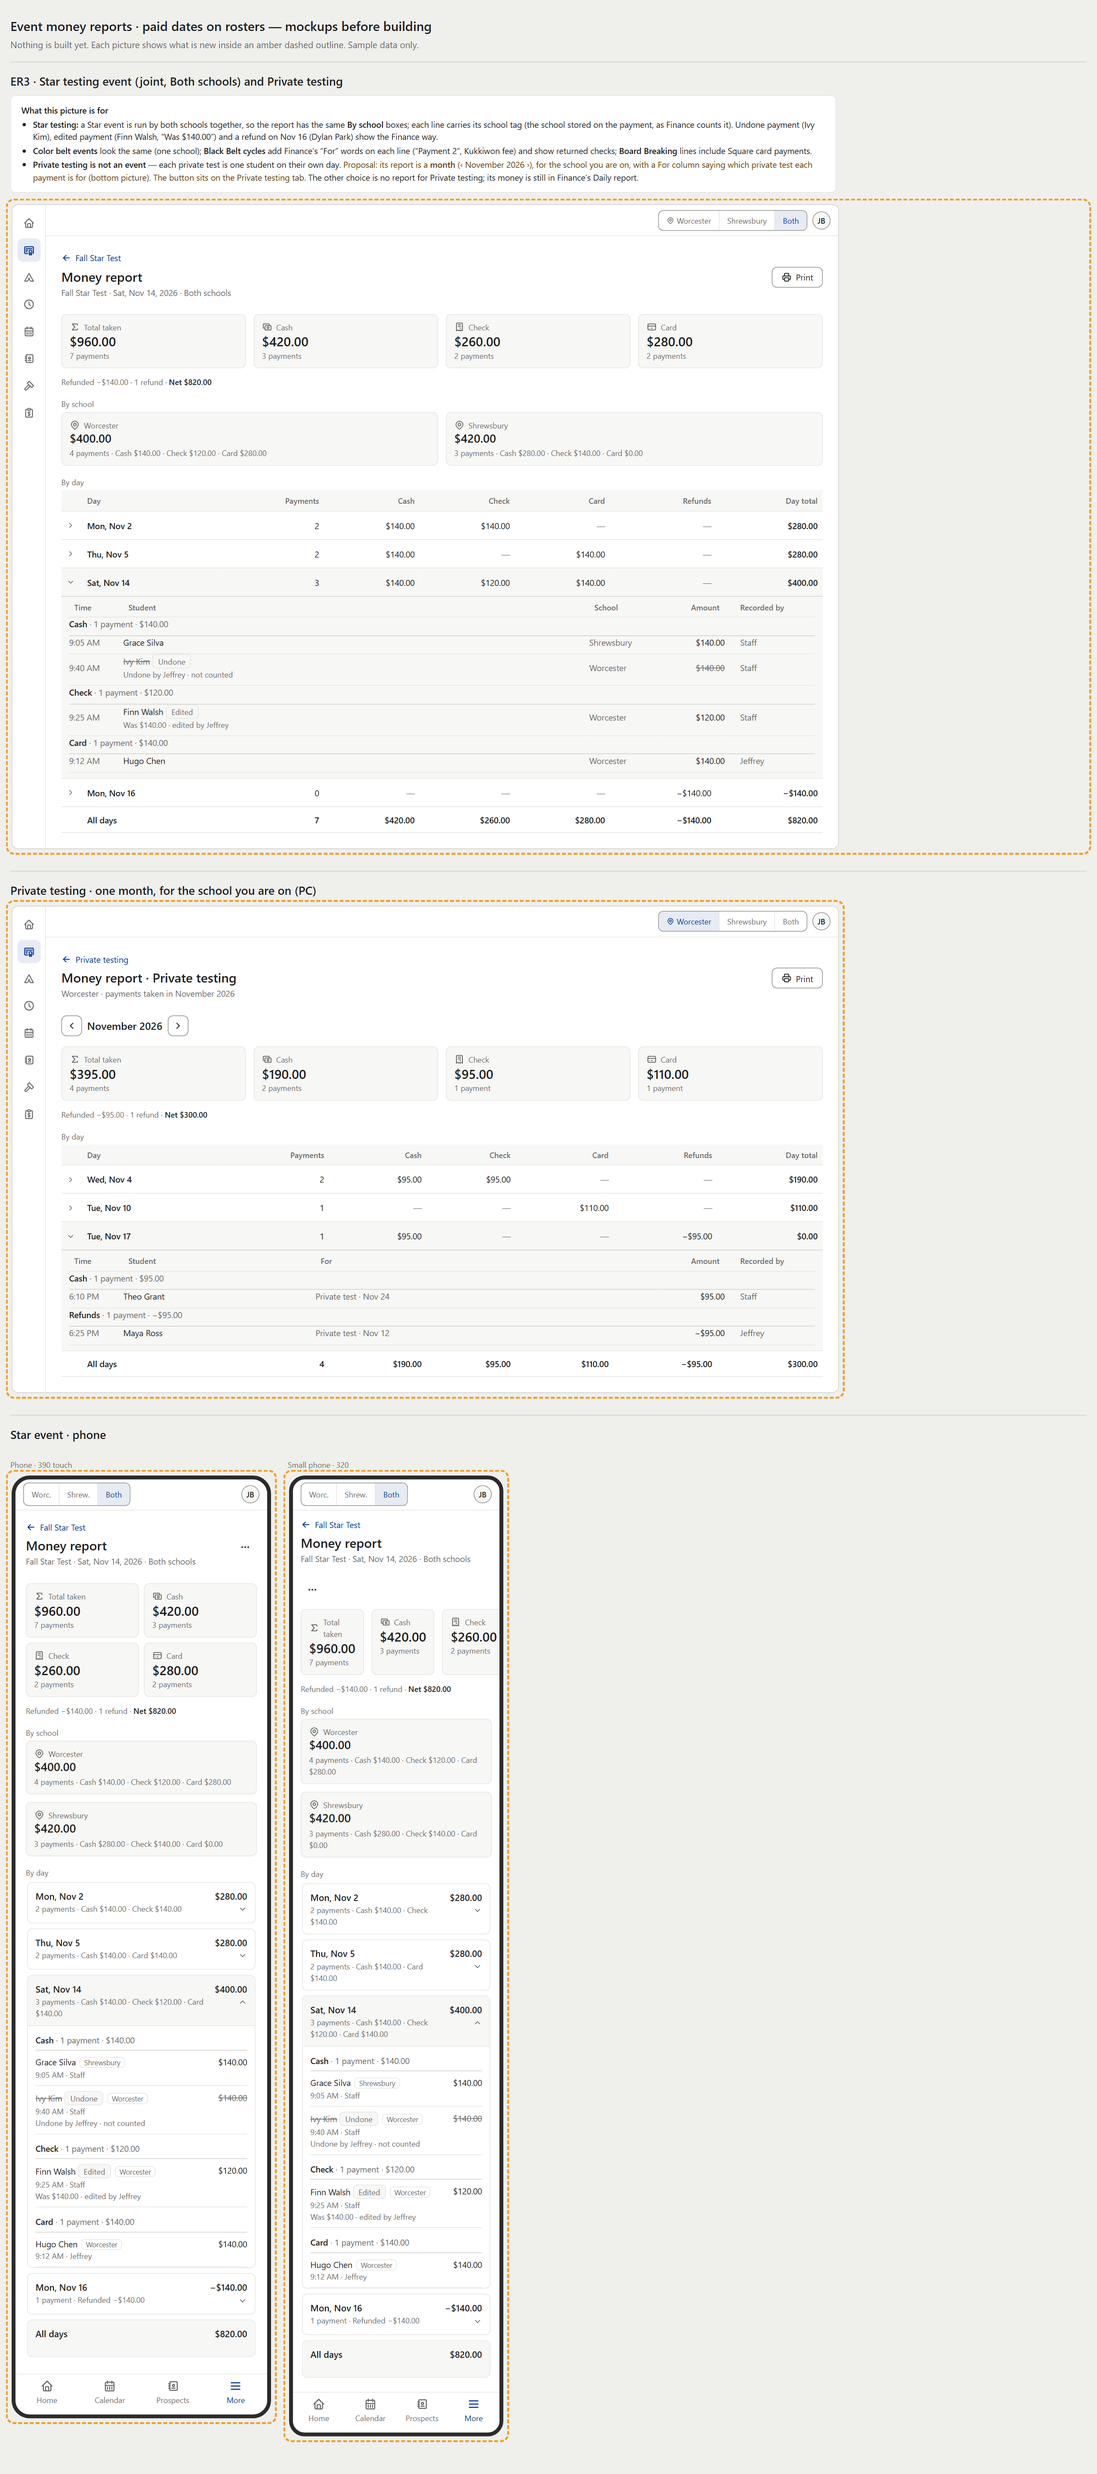
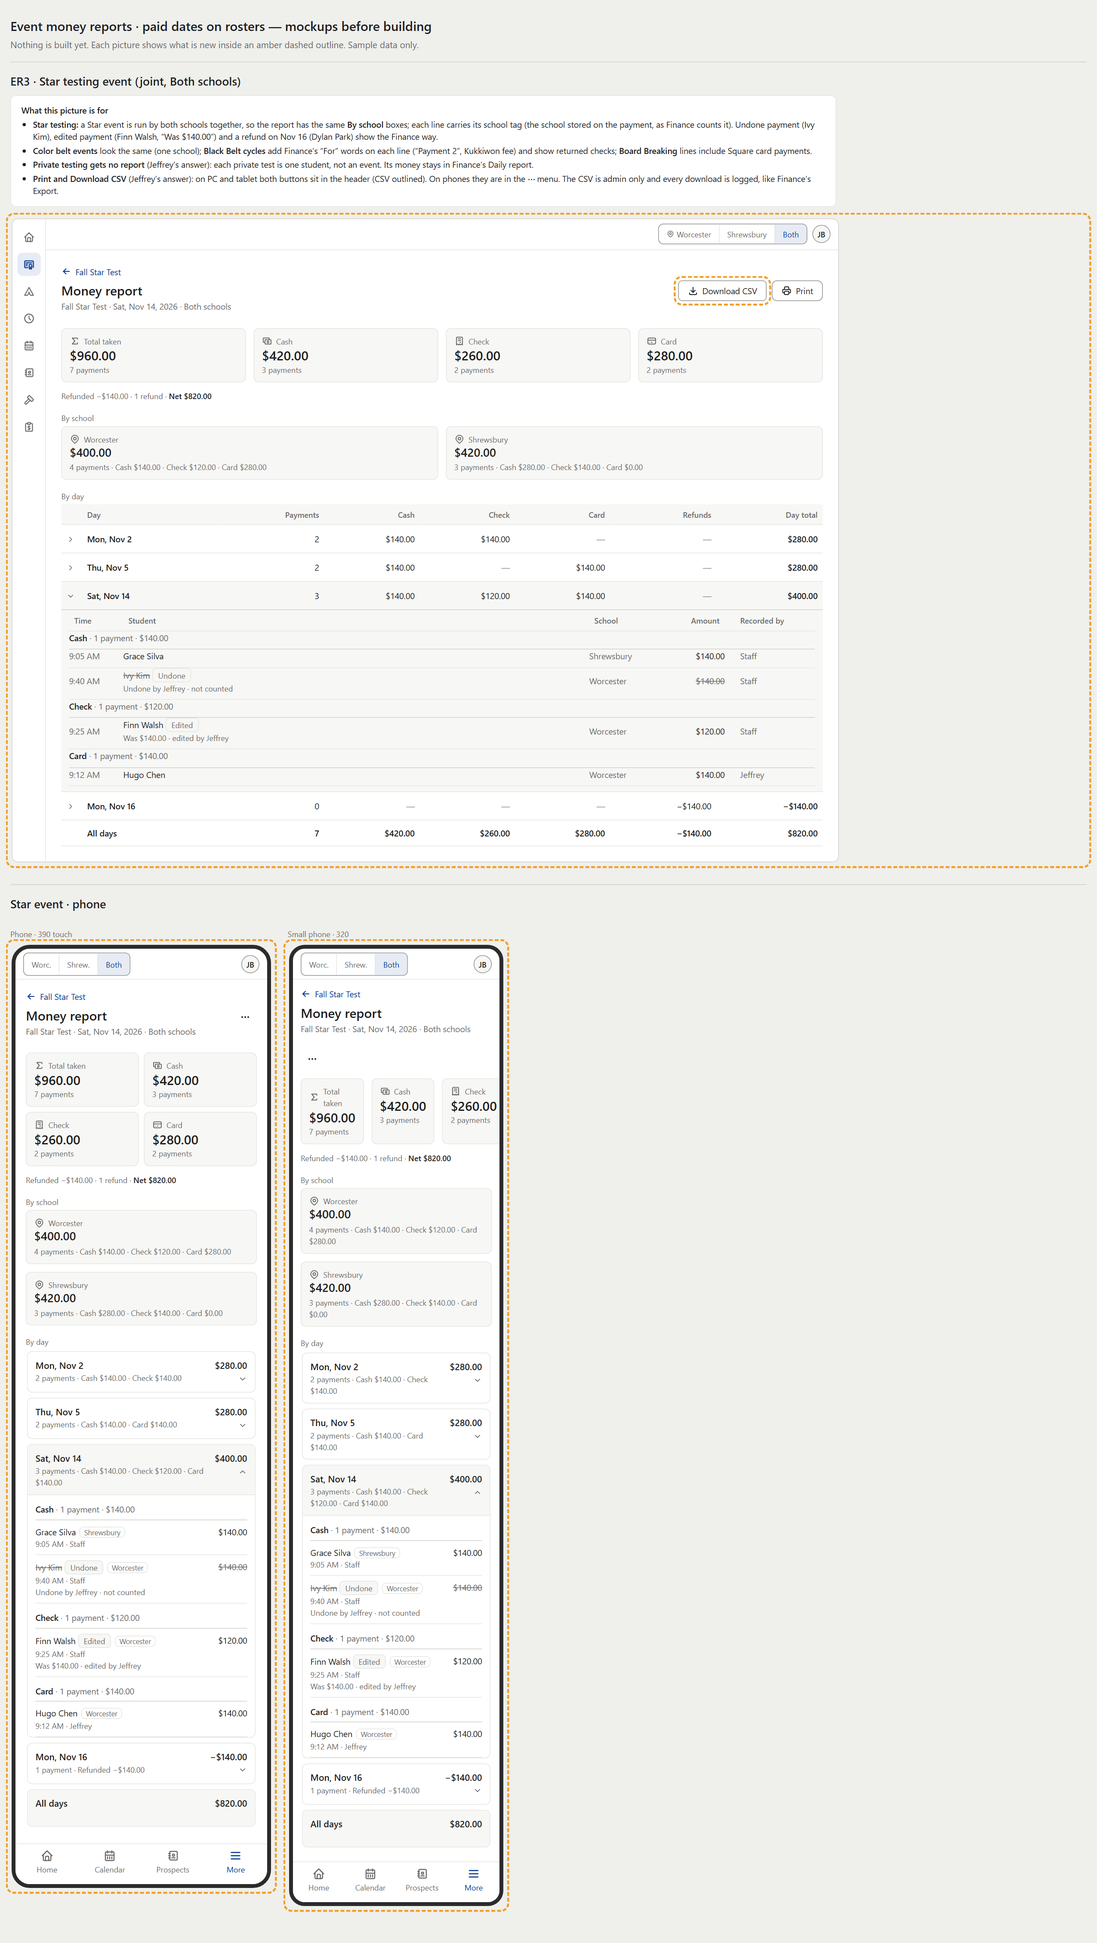
Event reports: Jeffrey's 8 answers recorded; mockups updated (no Private testing report, Download CSV button)

diff --git a/docs/Finance/Event reports/TKD-EventReports-Mockups.html b/docs/Finance/Event reports/TKD-EventReports-Mockups.html
@@ -9,7 +9,7 @@
   (Jeffrey's rule: new things are drawn first). Four pictures:
     ER1  where the report lives (three choices) and who sees it
     ER2  one camp's report at PC 1280, tablet 820, phone 390 and small phone 320, plus the other layout
-    ER3  a Star testing event on Both schools, and Private testing (which has no single event)
+    ER3  a Star testing event on Both schools
     PD1  the paid date on the Camps, Board Breaking and Black Belt rosters
   Amber dashed outline = what is new. Amber text = a proposal to confirm. Sample data only (made-up names).
   Open with #ER1, #ER2, #ER3 or #PD1 at the end of the address to see one picture alone.
@@ -365,7 +365,7 @@ function pageHead(d, o) {
   const { back, title = 'Money report', sub, print = true } = o;
   const btns = d === 'ph' || d === 'sm'
     ? `<span class="ibtn plain"><i class="ti ti-dots"></i></span>`
-    : `<span class="btn"><i class="ti ti-printer"></i>Print</span>`;
+    : `<span class="btn q"><i class="ti ti-download"></i>Download CSV</span><span class="btn"><i class="ti ti-printer"></i>Print</span>`;
   return `<div class="bk"><i class="ti ti-arrow-left"></i>${back}</div><div class="pagehead"><div><h1 class="ptitle">${title}</h1><div class="ph-sub">${sub}</div></div><span class="grow"></span>${print ? btns : ''}</div>`;
 }
 
@@ -428,7 +428,7 @@ function cbHead(tabQ) {
 function financeEvents() {
   const ev = [['April Vacation Camp','Camps','Mar 25 – Apr 19','Both','9','$2,245.00'],['Thanksgiving Camp','Camps','Nov 12 – Nov 17','Worcester','13','$1,815.00'],['Fall Star Test','Star testing','Nov 2 – Nov 16','Both','8','$720.00'],['Fall color belt testing','Color belt testing','Oct 12 – Oct 29','Worcester','27','$1,755.00'],['Spring Black Belt cycle','Black Belt','Sep 3 – Nov 10','Both','14','$18,900.00'],['Fall Board Breaking','Board breaking','Nov 1 – Nov 25','Shrewsbury','12','$198.50']];
   return `<h1 class="ptitle">Finance</h1><div class="ttabs"><span class="ttab">Daily report</span><span class="ttab on q" style="padding:0 8px">Events</span><span class="ttab">Settings</span></div>
-  <div class="chips"><span class="on">All</span><span>Color belt</span><span>Star</span><span>Black Belt</span><span>Camps</span><span>Board breaking</span><span>Private testing</span></div>
+  <div class="chips"><span class="on">All</span><span>Color belt</span><span>Star</span><span>Black Belt</span><span>Camps</span><span>Board breaking</span></div>
   <table><thead><tr><th>Event</th><th>Section</th><th>Money taken</th><th>School</th><th class="r">Payments</th><th class="r">Net total</th></tr></thead><tbody>${ev.map((r) => `<tr><td><b style="font-weight:500">${r[0]}</b></td><td class="sub">${r[1]}</td><td class="sub">${r[2]}</td><td class="sub">${r[3]}</td><td class="r">${r[4]}</td><td class="r">${r[5]}</td></tr>`).join('')}</tbody></table>`;
 }
 
@@ -466,17 +466,15 @@ S('ER2', 'One camp’s money report (Both schools)', `
   });
 
 // ---- ER3 ----
-S('ER3', 'Star testing event (joint, Both schools) and Private testing', `
+S('ER3', 'Star testing event (joint, Both schools)', `
   <h3>What this picture is for</h3>
   <ul><li><b>Star testing:</b> a Star event is run by both schools together, so the report has the same <b>By school</b> boxes; each line carries its school tag (the school stored on the payment, as Finance counts it). Undone payment (Ivy Kim), edited payment (Finn Walsh, “Was $140.00”) and a refund on Nov 16 (Dylan Park) show the Finance way.</li>
   <li><b>Color belt events</b> look the same (one school); <b>Black Belt cycles</b> add Finance’s “For” words on each line (“Payment 2”, Kukkiwon fee) and show returned checks; <b>Board Breaking</b> lines include Square card payments.</li>
-  <li><b>Private testing is not an event</b> — each private test is one student on their own day. <span class="prop">Proposal: its report is a <b>month</b> (‹ November 2026 ›), for the school you are on, with a For column saying which private test each payment is for (bottom picture). The button sits on the Private testing tab.</span> The other choice is no report for Private testing; its money is still in Finance’s Daily report.</li></ul>`,
+  <li><b>Private testing gets no report</b> (Jeffrey’s answer): each private test is one student, not an event. Its money stays in Finance’s Daily report.</li>
+  <li><b>Print and Download CSV</b> (Jeffrey’s answer): on PC and tablet both buttons sit in the header (CSV outlined). On phones they are in the ⋯ menu. The CSV is admin only and every download is logged, like Finance’s Export.</li></ul>`,
   () => {
     const so = { rows: STAR, both: true, back: 'Fall Star Test', sub: 'Fall Star Test · Sat, Nov 14, 2026 · Both schools', open: '2026-11-14' };
-    const po = { rows: PRIV, both: false, back: 'Private testing', title: 'Money report · Private testing', sub: 'Worcester · payments taken in November 2026', open: '2026-11-17', forCol: true,
-      header: `<div class="dayrow"><span class="ibtn"><i class="ti ti-chevron-left"></i></span><span class="day">November 2026</span><span class="ibtn"><i class="ti ti-chevron-right"></i></span></div>` };
     return `<div class="q" style="padding:2px">${dev('pc', { section: 'testing', body: report('pc', so) })}</div>
-      <h2 class="scr" style="margin-top:32px">Private testing · one month, for the school you are on (PC)</h2><div class="q" style="padding:2px;width:fit-content">${dev('pc', { section: 'testing', loc: 'Worcester', minH: 560, body: report('pc', po) })}</div>
       <h2 class="scr" style="margin-top:32px">Star event · phone</h2><div class="row2"><div>${cap('Phone · 390 touch')}<div class="q" style="padding:2px">${dev('ph', { section: 'testing', body: report('ph', so) })}</div></div><div>${cap('Small phone · 320')}<div class="q" style="padding:2px">${dev('sm', { section: 'testing', body: report('sm', so) })}</div></div></div>`;
   });
 

diff --git a/docs/Finance/Event reports/tools/er-mockups.src.html b/docs/Finance/Event reports/tools/er-mockups.src.html
@@ -9,7 +9,7 @@
   (Jeffrey's rule: new things are drawn first). Four pictures:
     ER1  where the report lives (three choices) and who sees it
     ER2  one camp's report at PC 1280, tablet 820, phone 390 and small phone 320, plus the other layout
-    ER3  a Star testing event on Both schools, and Private testing (which has no single event)
+    ER3  a Star testing event on Both schools
     PD1  the paid date on the Camps, Board Breaking and Black Belt rosters
   Amber dashed outline = what is new. Amber text = a proposal to confirm. Sample data only (made-up names).
   Open with #ER1, #ER2, #ER3 or #PD1 at the end of the address to see one picture alone.
@@ -193,7 +193,7 @@ function pageHead(d, o) {
   const { back, title = 'Money report', sub, print = true } = o;
   const btns = d === 'ph' || d === 'sm'
     ? `<span class="ibtn plain"><i class="ti ti-dots"></i></span>`
-    : `<span class="btn"><i class="ti ti-printer"></i>Print</span>`;
+    : `<span class="btn q"><i class="ti ti-download"></i>Download CSV</span><span class="btn"><i class="ti ti-printer"></i>Print</span>`;
   return `<div class="bk"><i class="ti ti-arrow-left"></i>${back}</div><div class="pagehead"><div><h1 class="ptitle">${title}</h1><div class="ph-sub">${sub}</div></div><span class="grow"></span>${print ? btns : ''}</div>`;
 }
 
@@ -256,7 +256,7 @@ function cbHead(tabQ) {
 function financeEvents() {
   const ev = [['April Vacation Camp','Camps','Mar 25 – Apr 19','Both','9','$2,245.00'],['Thanksgiving Camp','Camps','Nov 12 – Nov 17','Worcester','13','$1,815.00'],['Fall Star Test','Star testing','Nov 2 – Nov 16','Both','8','$720.00'],['Fall color belt testing','Color belt testing','Oct 12 – Oct 29','Worcester','27','$1,755.00'],['Spring Black Belt cycle','Black Belt','Sep 3 – Nov 10','Both','14','$18,900.00'],['Fall Board Breaking','Board breaking','Nov 1 – Nov 25','Shrewsbury','12','$198.50']];
   return `<h1 class="ptitle">Finance</h1><div class="ttabs"><span class="ttab">Daily report</span><span class="ttab on q" style="padding:0 8px">Events</span><span class="ttab">Settings</span></div>
-  <div class="chips"><span class="on">All</span><span>Color belt</span><span>Star</span><span>Black Belt</span><span>Camps</span><span>Board breaking</span><span>Private testing</span></div>
+  <div class="chips"><span class="on">All</span><span>Color belt</span><span>Star</span><span>Black Belt</span><span>Camps</span><span>Board breaking</span></div>
   <table><thead><tr><th>Event</th><th>Section</th><th>Money taken</th><th>School</th><th class="r">Payments</th><th class="r">Net total</th></tr></thead><tbody>${ev.map((r) => `<tr><td><b style="font-weight:500">${r[0]}</b></td><td class="sub">${r[1]}</td><td class="sub">${r[2]}</td><td class="sub">${r[3]}</td><td class="r">${r[4]}</td><td class="r">${r[5]}</td></tr>`).join('')}</tbody></table>`;
 }
 
@@ -294,17 +294,15 @@ S('ER2', 'One camp’s money report (Both schools)', `
   });
 
 // ---- ER3 ----
-S('ER3', 'Star testing event (joint, Both schools) and Private testing', `
+S('ER3', 'Star testing event (joint, Both schools)', `
   <h3>What this picture is for</h3>
   <ul><li><b>Star testing:</b> a Star event is run by both schools together, so the report has the same <b>By school</b> boxes; each line carries its school tag (the school stored on the payment, as Finance counts it). Undone payment (Ivy Kim), edited payment (Finn Walsh, “Was $140.00”) and a refund on Nov 16 (Dylan Park) show the Finance way.</li>
   <li><b>Color belt events</b> look the same (one school); <b>Black Belt cycles</b> add Finance’s “For” words on each line (“Payment 2”, Kukkiwon fee) and show returned checks; <b>Board Breaking</b> lines include Square card payments.</li>
-  <li><b>Private testing is not an event</b> — each private test is one student on their own day. <span class="prop">Proposal: its report is a <b>month</b> (‹ November 2026 ›), for the school you are on, with a For column saying which private test each payment is for (bottom picture). The button sits on the Private testing tab.</span> The other choice is no report for Private testing; its money is still in Finance’s Daily report.</li></ul>`,
+  <li><b>Private testing gets no report</b> (Jeffrey’s answer): each private test is one student, not an event. Its money stays in Finance’s Daily report.</li>
+  <li><b>Print and Download CSV</b> (Jeffrey’s answer): on PC and tablet both buttons sit in the header (CSV outlined). On phones they are in the ⋯ menu. The CSV is admin only and every download is logged, like Finance’s Export.</li></ul>`,
   () => {
     const so = { rows: STAR, both: true, back: 'Fall Star Test', sub: 'Fall Star Test · Sat, Nov 14, 2026 · Both schools', open: '2026-11-14' };
-    const po = { rows: PRIV, both: false, back: 'Private testing', title: 'Money report · Private testing', sub: 'Worcester · payments taken in November 2026', open: '2026-11-17', forCol: true,
-      header: `<div class="dayrow"><span class="ibtn"><i class="ti ti-chevron-left"></i></span><span class="day">November 2026</span><span class="ibtn"><i class="ti ti-chevron-right"></i></span></div>` };
     return `<div class="q" style="padding:2px">${dev('pc', { section: 'testing', body: report('pc', so) })}</div>
-      <h2 class="scr" style="margin-top:32px">Private testing · one month, for the school you are on (PC)</h2><div class="q" style="padding:2px;width:fit-content">${dev('pc', { section: 'testing', loc: 'Worcester', minH: 560, body: report('pc', po) })}</div>
       <h2 class="scr" style="margin-top:32px">Star event · phone</h2><div class="row2"><div>${cap('Phone · 390 touch')}<div class="q" style="padding:2px">${dev('ph', { section: 'testing', body: report('ph', so) })}</div></div><div>${cap('Small phone · 320')}<div class="q" style="padding:2px">${dev('sm', { section: 'testing', body: report('sm', so) })}</div></div></div>`;
   });
 

diff --git a/docs/Finance/Event reports/TKD-EventReports-Status.md b/docs/Finance/Event reports/TKD-EventReports-Status.md
@@ -1,7 +1,7 @@
-# Event money reports + paid dates on rosters — status and questions
+# Event money reports + paid dates on rosters — status and decisions
 
-**Branch:** `claude/event-reports-dfd86c` (worktree `event-reports-dfd86c`) · **Rulebook block:** Finance 0.800–0.899 (nothing written yet: no decision made)
-**Started:** 2026-11-17 · **Stage:** mockups drawn, waiting on Jeffrey's answers. Nothing built, no migration number reserved yet.
+**Branch:** `claude/event-reports-dfd86c` (worktree `event-reports-dfd86c`) · **Rulebook block:** Finance 0.800–0.899 (rows not written yet)
+**Started:** 2026-11-17 · **Stage:** all 8 questions answered by Jeffrey 2026-11-19. Mockups updated for the answers. Next: migration numbers from Main, rulebook rows, contract, migration, tests, security review, build.
 
 Jeffrey's request (2026-11-17): the boss wants each event to have its own report like the Daily report, and every roster should show the paid date next to Paid. Finance stays as it is.
 
@@ -9,24 +9,24 @@ Jeffrey's request (2026-11-17): the boss wants each event to have its own report
 
 - **Paid date already shown:** Color belt testing, Star testing, Private testing. PC/tablet have a "Paid on" column, phones show "Cash · paid Nov 14".
 - **Data already there, just not shown:** Camps (`camp_roster` view has `paid_on`, the last payment's date) and Board Breaking (`brk_event_roster` returns every payment with `paid_on`).
-- **Data missing:** Black Belt's roster (`bb_cycle_roster`, 0025) has no payment date; the date is only in the candidate detail. Needs a small additive change to that live function = a migration.
-- **Event report data:** `finance_money_rows_core` already returns every section's payments with `event_id`, `event_name` and the stored school, but it is internal (no one can call it), and the live readers (`finance_day`, `finance_export`) are by school and day (export is admin-only, logs every call, at most 366 days). No reader gives one event's payments. So the report needs ONE new read-only function (`event_money_report(source, event_id)` or similar), built on the same rows, changing no live Finance function. Private testing rows have no event id (each private test is one student), so it needs a month-based variant.
+- **Data missing:** Black Belt's roster (`bb_cycle_roster`, 0025) has no payment date; it is only in the candidate detail. Needs a small additive change to that live function = a migration.
+- **Event report data:** `finance_money_rows_core` already returns every section's payments with `event_id`, `event_name` and the stored school, but it is internal. The live readers (`finance_day`, `finance_export`) are by school and day (export is admin-only, logged, ≤366 days). No reader gives one event's payments, so the report needs new read-only function(s) built on the same rows, changing no live Finance function.
 
 ## Pictures (this folder: `TKD-EventReports-Mockups.html`, PNGs in `images/`)
 
-ER1 where the report lives · ER2 a camp's report at PC / tablet / phone / 320 + the other layout · ER3 a Star event on Both schools, Private testing by month, phones · PD1 the paid date on Camps, Board Breaking, Black Belt (PC, tablet, phone, 320). Source: `tools/er-mockups.src.html`, built with `tools/build.mjs`, shot with `tools/shoot.mjs`.
+ER1 where the report lives · ER2 a camp's report at PC / tablet / phone / 320 + the other layout · ER3 a Star event on Both schools + phones · PD1 the paid date on Camps, Board Breaking, Black Belt. Source: `tools/er-mockups.src.html`, built with `tools/build.mjs`, shot with `tools/shoot.mjs`. (Updated 2026-11-19: no Private testing report, Download CSV button added.)
 
-## Questions for Jeffrey (asked together)
+## Jeffrey's answers (2026-11-19)
 
-1. **Where does the report live?** A: Money report button on every event page (recommended) · B: Money tab · C: Events tab inside Finance · D shows who sees it.
-2. **Layout of the report:** B: one row per day, tap to open (recommended) · A: every day a full block.
-3. **Who sees it:** admins only (recommended; same as Finance, hidden by Hide private details) · staff too.
-4. **Both schools:** follow the school switcher; boxes per school on Both (recommended).
-5. **Private testing:** a month report (recommended) · none.
-6. **Print / export:** Print only (recommended) · Print + CSV (the CSV needs a download log, so more database work).
-7. **Database:** OK to ask Main for a migration number for the new read-only function (0054 is next free)?
-8. **Paid date on rosters:** Color Belt's pattern; date = day the payment was paid, for several payments the one that made them paid in full, dash while a balance is left (recommended) · or the last payment's date even when a balance is left. Hides with Hide private details. Black Belt needs one small migration (a second number).
+1. **Where:** A — a **Money report** button in the header of every event page.
+2. **Layout:** B — one row per day, tap to open (Print opens every day).
+3. **Who sees it:** admins only; hidden by Hide private details.
+4. **Both schools:** follow the school switcher; boxes per school on Both.
+5. **Private testing:** **no report.** Its money stays in Finance's Daily report only.
+6. **Print / export:** **Print + CSV.** The CSV is admin only and every download is logged (Finance Export pattern, so a download-log table in the migration).
+7. **Database:** standing OK for Main to reserve migration numbers; needs two: (a) event report reader + CSV + download log, (b) Black Belt roster paid date. Nothing applied to the live database without Jeffrey's OK.
+8. **Paid date:** the day the student became **paid in full**; a dash while a balance is left. Color belt's pattern (PC/tablet "Paid on" column, phone "Cash · paid Nov 14"); hides with Hide private details; Black Belt via a small migration. (Jeffrey answered the date rule; the placement/rules part was taken as agreed.)
 
-## Next (after answers)
+## Next
 
-Rulebook rows in Finance's block, contract + migration + tests + security review for the database parts, then build, review, Main merges. Files likely touched when building: new `src/screens/finance/EventReport*.jsx` + `src/lib/finance/`; one button in each event page header (Camps `CampPage.jsx`, Board Breaking `EventPage.jsx` — tell Main before touching); roster files for the paid date (Camps `CampRoster.jsx`, Board Breaking `roster/Roster.jsx`, Black Belt `RosterRows.jsx`).
+Ask Main for the two numbers (next free 0054) → rulebook rows (Finance block, after `git merge main`) → contract + migrations + PGlite tests + independent security review → build (event report page + route, buttons, roster paid dates, preview mock data) → design review (1280×800, 820×1180 touch, 390×844 touch, 320; admin and staff; Hide private details) → checks → commit → Main merges, Jeffrey pastes the migrations after his OK. Files likely touched: new `src/screens/finance/EventReport*.jsx` + `src/lib/finance/`; one button in each event page header (Camps `CampPage.jsx`, Board Breaking `EventPage.jsx` — tell Main before touching; Testing, Star, Black Belt cycle pages); roster files for the paid date (Camps `CampRoster.jsx`, Board Breaking `roster/Roster.jsx`, Black Belt `RosterRows.jsx`).
